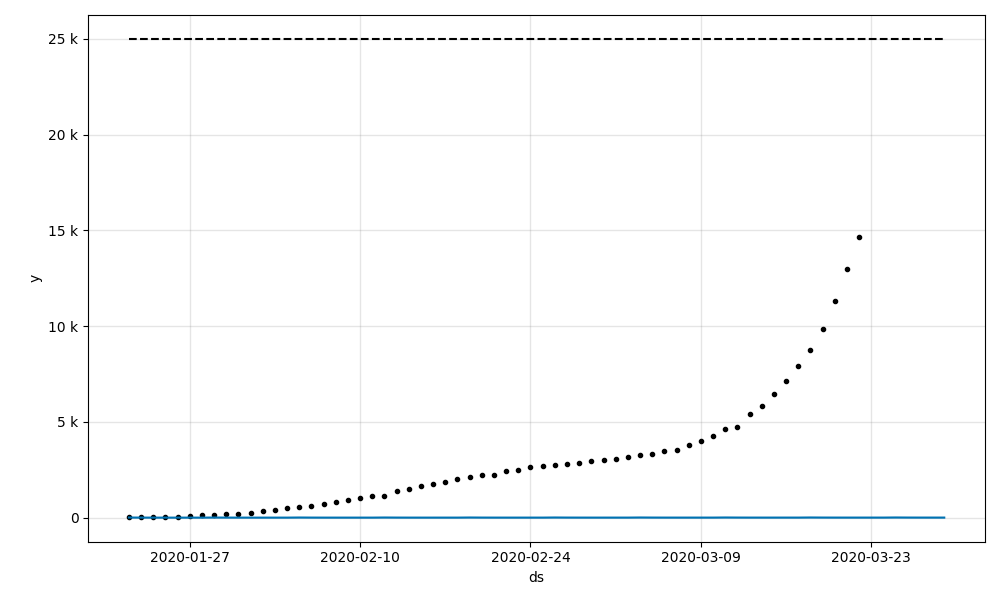
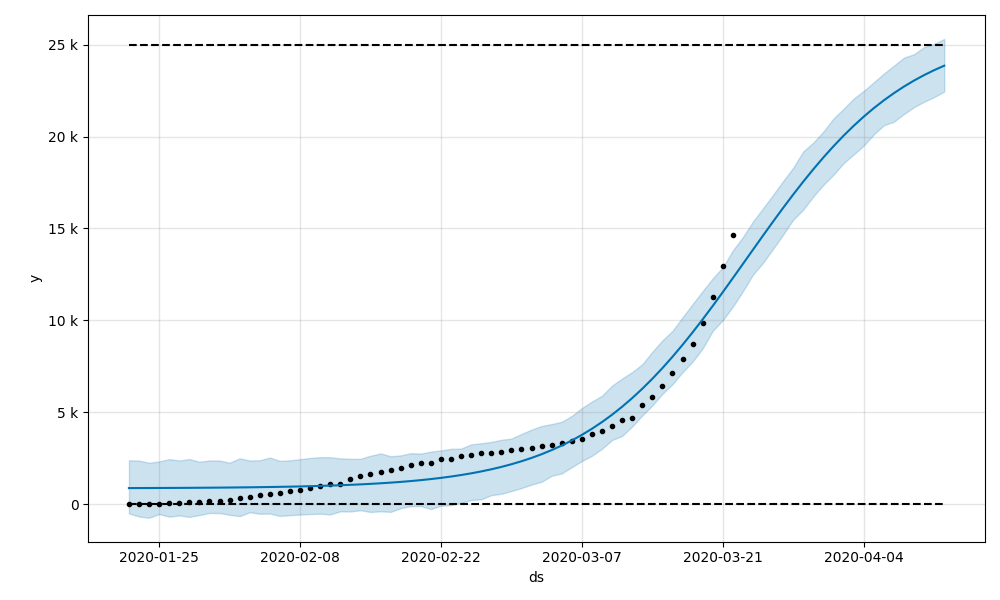
predictions

diff --git a/prophet.py b/prophet.py
@@ -1,6 +1,9 @@
 import matplotlib.pyplot as plt
 import numpy as np
+
 from fbprophet import Prophet
+from fbprophet.plot import add_changepoints_to_plot
+
 from sklearn.metrics import mean_squared_error,r2_score
 from matplotlib.ticker import FuncFormatter
 import matplotlib.pyplot as plt
@@ -20,13 +23,13 @@ tb = ld.table
 
 #prediction for confirmed - logistic
 c_log_prophet = Prophet(growth="logistic",
-                    interval_width=0.98,
-                    # changepoint_prior_scale=0.05,
-                    #changepoint_range=0.9,
-                    yearly_seasonality=False,
-                    weekly_seasonality=False,
-                    daily_seasonality=True,
-                    seasonality_mode='additive')
+                        interval_width=0.95,
+                        changepoint_prior_scale=0.05,
+                        changepoint_range=0.9,
+                        yearly_seasonality=False,
+                        weekly_seasonality=False,
+                        daily_seasonality=True,
+                        seasonality_mode='additive',)
 
 c_log_prophet.fit(ds_confirmed)
 c_log_future = c_log_prophet.make_future_dataframe(periods=20)
@@ -52,8 +55,6 @@ c_lin_prophet = Prophet(growth="linear",
 
 c_lin_prophet.fit(ds_confirmed)
 c_lin_future = c_lin_prophet.make_future_dataframe(periods=20)
-#c_lin_future['cap'] = ld.confirmed_population
-#c_lin_future['floor'] = ld.confirmed_floor
 print("confirmed future tail -linear", c_lin_future.tail())
 c_lin_forecast = c_lin_prophet.predict(c_lin_future)
 print(c_lin_forecast[['ds','yhat', 'yhat_lower', 'yhat_upper']])
@@ -63,21 +64,26 @@ print("RMSE for Linear Prophet Model - Confirmed:",
 
 
 
+# Deaths model
+d_prophet = Prophet(growth="logistic",
+                    interval_width=0.95,
+                    yearly_seasonality=False,
+                    weekly_seasonality=False,
+                    daily_seasonality=True,
+                    seasonality_mode='additive')
+d_prophet.fit(ds_deaths)
+
+d_future = d_prophet.make_future_dataframe(periods=21)
+d_future['cap'] = ld.deaths_population
+d_future['floor'] = ld.deaths_floor
+d_forecast = d_prophet.predict(d_future)
+
 # Mortality rate model
 m_prophet = Prophet ()
 m_prophet.fit(ds_mortality)
 m_future = m_prophet.make_future_dataframe(periods=31)
 m_forecast = m_prophet.predict(m_future)
 
-# Deaths model
-d_prophet = Prophet(growth="logistic",
-                    interval_width=0.95)
-d_prophet.fit(ds_deaths)
-
-d_future = m_prophet.make_future_dataframe(periods=7)
-d_future['cap'] = ld.deaths_population
-d_future['floor'] = ld.deaths_floor
-d_forecast = m_prophet.predict(d_future)
 
 
 #illustrate
@@ -85,6 +91,7 @@ d_forecast = m_prophet.predict(d_future)
 
 
 c_log_fig = c_log_prophet.plot(c_log_forecast)
+#c_log_chpt = add_changepoints_to_plot(c_log_fig.gca(),  c_log_prophet, c_log_forecast)
 ax = plt.gca(); ax.yaxis.set_major_formatter(FuncFormatter(xt.y_fmt))
 xt.save(c_log_fig, xt.name(odir, "prophet_logistic_confirmed"))
     

diff --git a/README.md b/README.md
@@ -31,6 +31,6 @@ Predictions for total confirmed cases using a logistic model.
 Predictions for mortality rate.
 ![Prophet mortality](images/prophet_mortality.png?raw=true "Predictions mortality rate")
 
-Predictions for deaths.
+Predictions for deaths using a logistic model.
 ![Prophet deaths](images/prophet_deaths.png?raw=true "Predictions deaths")
 
